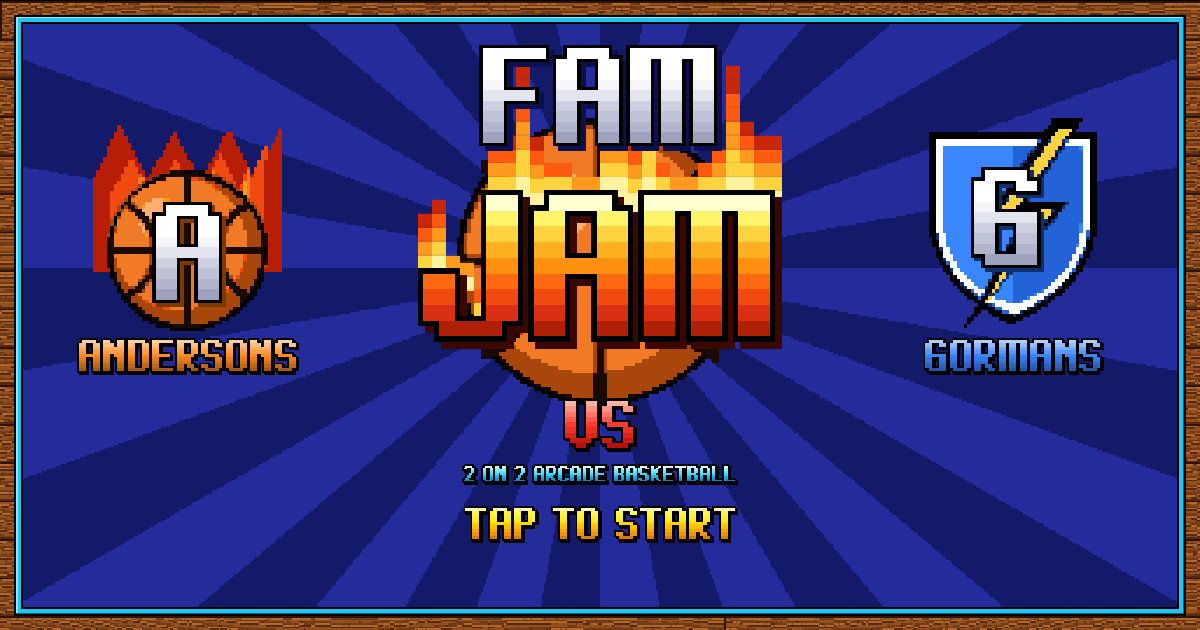
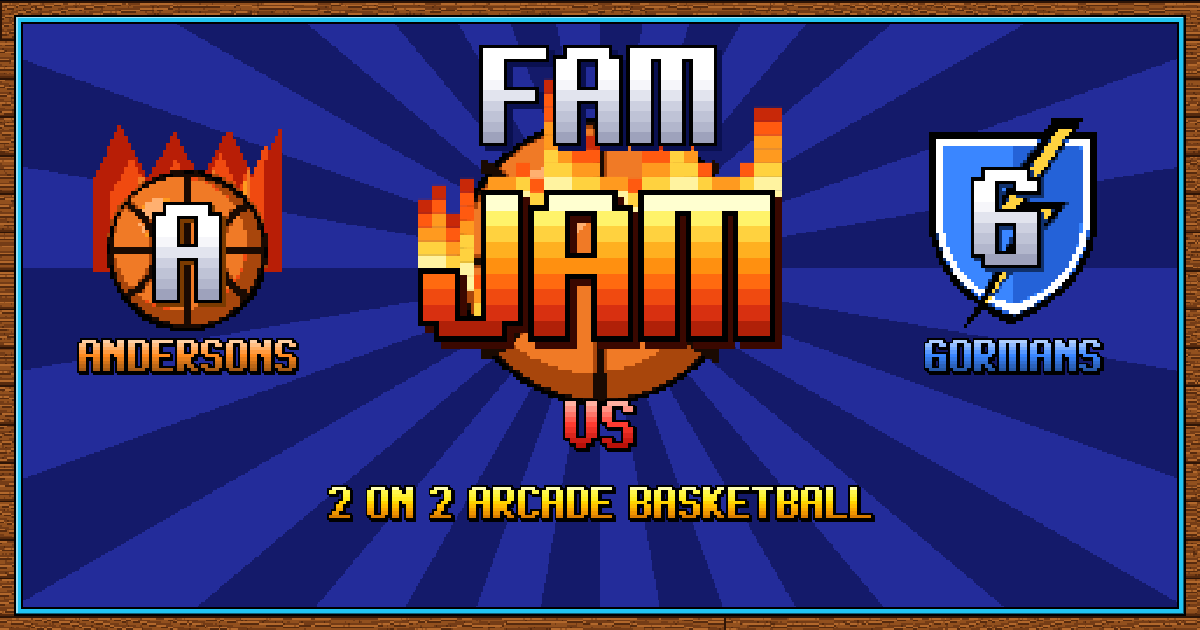
FAM JAM: readable link preview (no TAP TO START, big tagline); README and gen.js notes match the code
Claude-Session: https://claude.ai/code/session_01ToiDsSQnaqBjUawR2EXcU4

Changed region(s): [[0.2775, 0.7238, 0.74, 0.8746], [0.3392, 0.0905, 0.6783, 0.4825]]

diff --git a/famjam/tools/gen.js b/famjam/tools/gen.js
@@ -2,7 +2,7 @@
 // Usage (from the repo root, Playwright installed):  THREE_JS=/path/to/three.min.js node famjam/tools/gen.js [ids...]
 // THREE_JS is optional; without it the page loads three.js r128 from the CDN. Env: OUT=dir writes elsewhere (for previews),
 // HEADS=1 only the heads, BODIES=1 only the sheets, REDO_FACES=1 also redoes existing front heads.
-// Front heads of players with a real photo cut-out (PHOTO in gen.html: alan) are never written.
+// Front heads of players with a real photo cut-out (photo: true in famjam/js/data.js) are never written.
 const http = require('http'), fs = require('fs'), path = require('path'), zlib = require('zlib');
 let chromium; try { ({ chromium } = require('playwright')); } catch (e) { ({ chromium } = require('/opt/node-tools/node_modules/playwright')); }
 const ROOT = path.resolve(__dirname, '..', '..'), OUT = process.env.OUT ? path.resolve(process.env.OUT) : path.resolve(__dirname, '..');

diff --git a/famjam/README.md b/famjam/README.md
@@ -35,9 +35,9 @@ Every knockdown (shove, dunk rejection, posterize, ankle-breaker) is a hard hit:
 Like the arcade originals, players are flat sprites (digitized frames) with a big head pasted on top.
 
 - **Bodies**: `tools/gen.html` poses the realistic athlete body from `../hoops` through every move (run, dribble, jump shot, dunk, pass, steal, shove, fall, celebrate) in three facings and saves sprite sheets to `sprites/<id>.png` + `<id>.json` (frame anchors for the feet, head and hands).
-- **Heads**: `faces/<id>_front.png` and `faces/<id>_back.png`. Alan's front face is cut out of a real photo; the others are rendered from their 3D heads. Drop a cut-out photo face (transparent PNG, about 96 x 123) into `faces/<id>_front.png` to give anyone a real face.
+- **Heads**: every player's face is cut out of a real photo (`faces/<id>_photo.png`, used for players with `photo: true` in `js/data.js`); the back of the head (`faces/<id>_back.png`) is rendered from the 3D head. A player without `photo: true` gets a rendered `faces/<id>_front.png` instead.
 
-Rebuild the sprites after changing a player's look in `../hoops/js/config.js` (needs Playwright):
+Rebuild the sprites after changing a player's look in `js/data.js` (`HW.PLAYERS` and `LOOK`; the athlete body itself comes from `../hoops/js/`). Needs Playwright:
 
 ```bash
 node famjam/tools/gen.js
@@ -49,6 +49,8 @@ node famjam/tools/gen.js
 famjam/index.html           canvas, touch buttons, rotate-your-phone card
 famjam/css/jam.css          layout, touch controls
 famjam/js/data.js           roster, teams, types, difficulty, announcer lines
+famjam/js/font.js           arcade bitmap font
+famjam/js/crowd.js          packed pixel crowd in the stands
 famjam/js/audio.js          synthesized sound effects
 famjam/js/gfx.js            camera, scanline floor, crowd, hoops, sprites + big heads, ball, particles
 famjam/js/game.js           rules: turbo, timed jump shots, dunks, passes, steals, shoves, blocks, rebounds, on fire, clock
@@ -56,6 +58,9 @@ famjam/js/ai.js             computer players
 famjam/js/ui.js             input, menus (team select, player cards, matchup), HUD, callouts
 famjam/js/main.js           boot and main loop
 famjam/sprites, faces       generated art
+famjam/img                  link-preview image (share.png, 1200x630) and home-screen icon (icon.png, 512x512)
+famjam/manifest.webmanifest home-screen app name, icon, fullscreen landscape
+jam/index.html              redirect from the old /jam/ link
 famjam/tools                sprite factory
 ```
 
